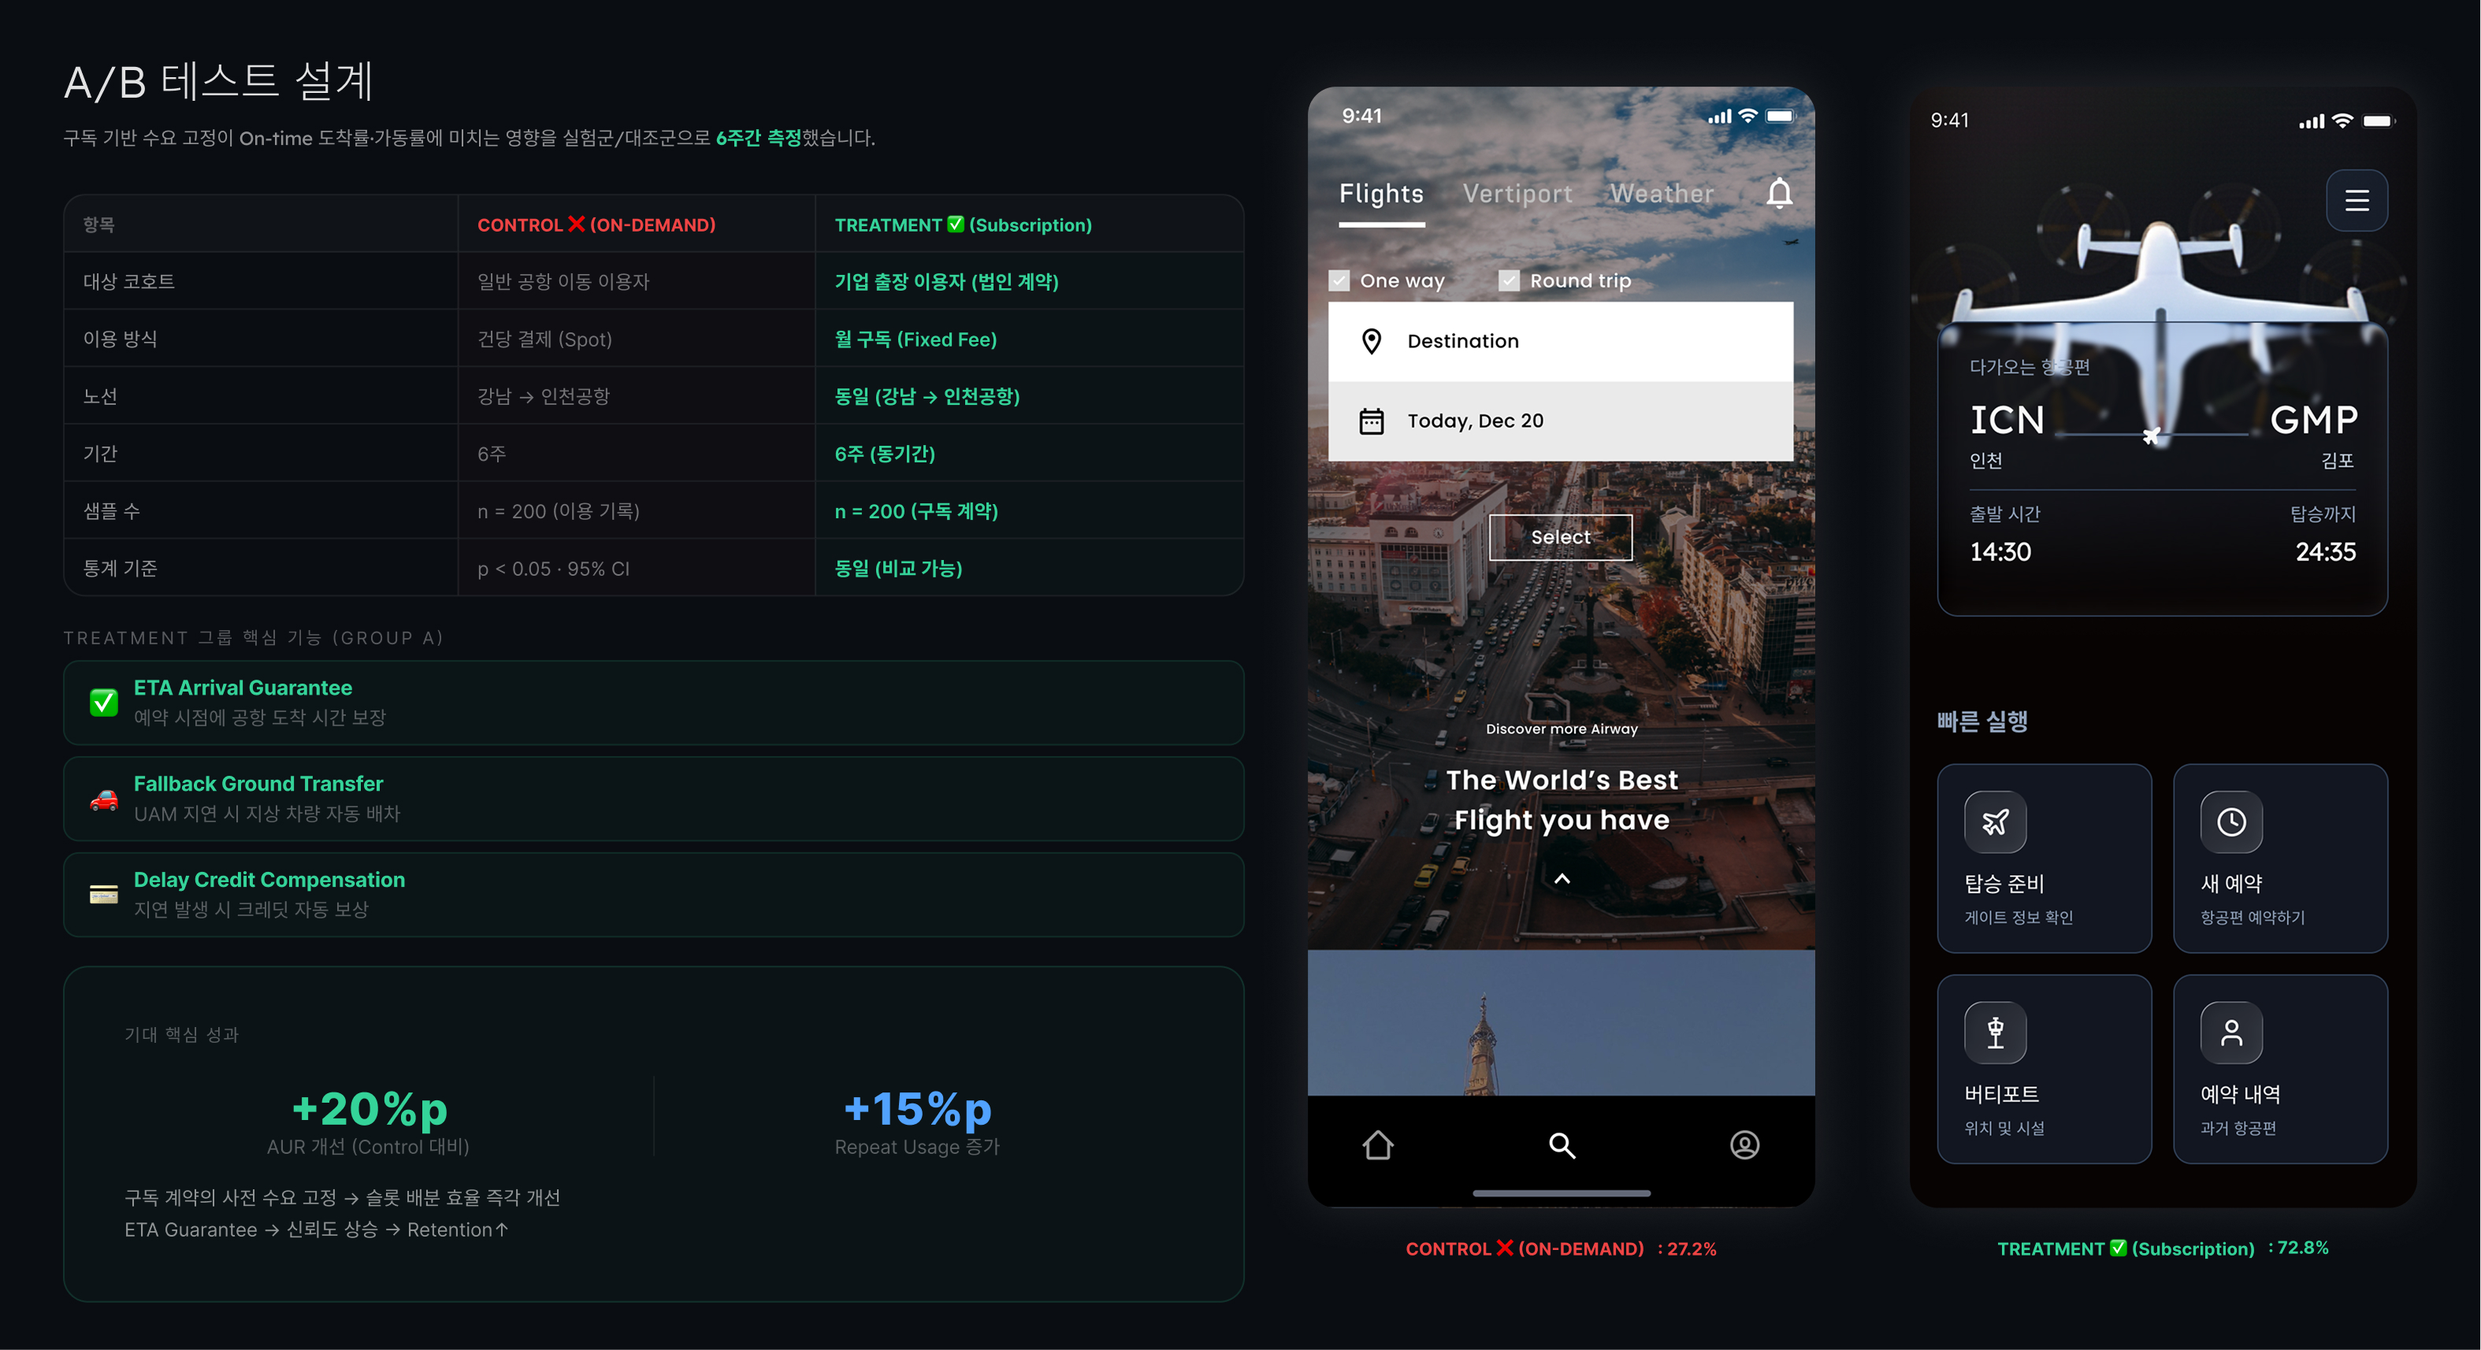
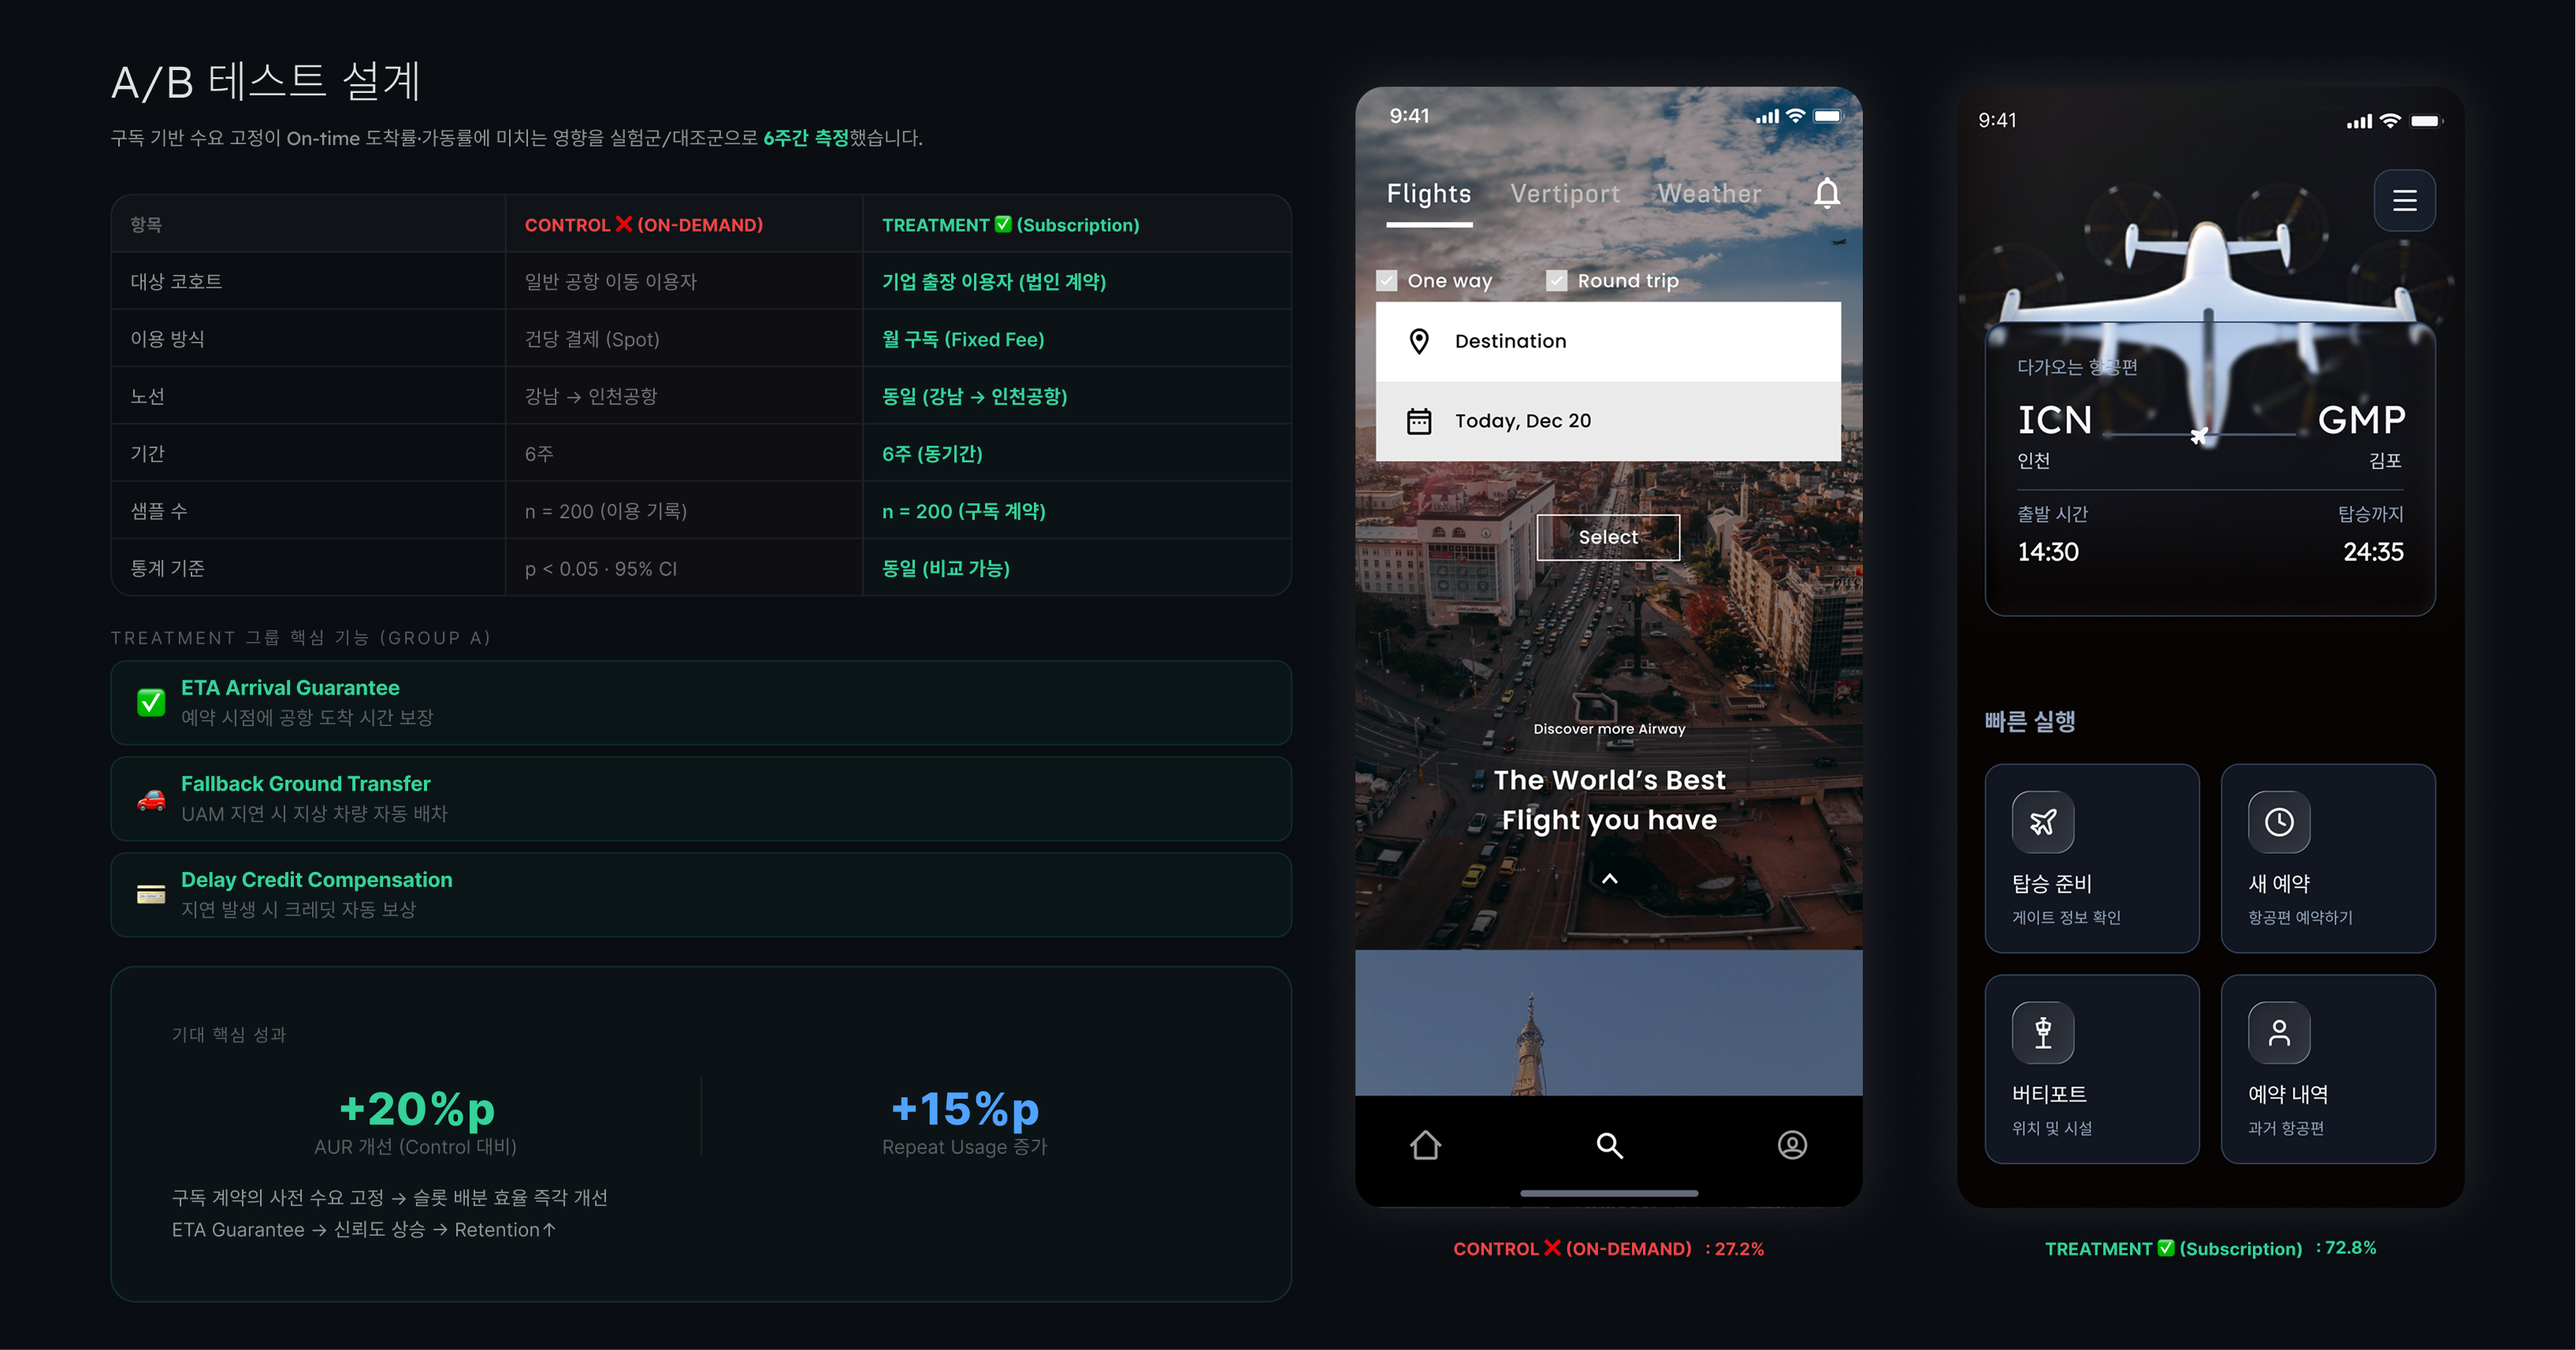
Update story cards, airway execution, work page edits

diff --git a/case-study-airway.html b/case-study-airway.html
@@ -231,6 +231,23 @@
     .strat-num { font-size:10px; font-weight:600; letter-spacing:0.18em; text-transform:uppercase; color:var(--accent); margin-bottom:10px; }
     .strat-name { font-family:'Lexend',sans-serif; font-size:16px; font-weight:600; color:var(--text); margin-bottom:8px; }
     .strat-desc { font-size:13px; color:var(--text-2); line-height:1.65; }
+    /* EXEC BLOCKS */
+    .exec-block-list{display:flex;flex-direction:column;gap:0;margin:0;}
+    .exec-block{padding:52px 0 0;border-top:1px solid var(--border);}
+    .exec-block-header{margin-bottom:32px;}
+    .exec-block-num{font-family:'Lexend',sans-serif;font-size:10px;font-weight:700;letter-spacing:.2em;text-transform:uppercase;color:var(--accent);margin-bottom:10px;}
+    .exec-block-name{font-family:'Lexend',sans-serif;font-size:clamp(20px,2.2vw,28px);font-weight:700;color:var(--text);line-height:1.15;}
+    .exec-block-meta{display:grid;grid-template-columns:1fr 1fr;gap:52px;margin-bottom:32px;}
+    @media(max-width:640px){.exec-block-meta{grid-template-columns:1fr;gap:20px;}}
+    .exec-block-label{font-size:9px;font-weight:700;letter-spacing:.18em;text-transform:uppercase;color:var(--text-3);margin-bottom:10px;}
+    .exec-block-purpose{font-size:15px;font-weight:600;font-family:'Lexend',sans-serif;color:var(--text);line-height:1.5;}
+    .exec-block-features{font-size:14px;color:var(--text-2);line-height:1.9;}
+    .exec-block-features li{list-style:none;padding-left:0;margin-bottom:8px;}
+    .exec-block-features li::before{content:'→ ';color:var(--accent);}
+    .exec-block-features strong{color:var(--text);font-weight:500;}
+    .exec-block-features em{color:var(--accent);font-style:normal;}
+    .exec-img-wrap{background:transparent;border:1px solid var(--border);border-radius:16px;overflow:hidden;margin:0 0 60px;width:100%;}
+    .exec-img-wrap img{width:100%;height:auto;display:block;}
 
     /* RESULT GRID */
     .result-grid { display:grid; grid-template-columns:repeat(3,1fr); gap:2px; background:var(--border); margin:36px 0; }
@@ -570,6 +587,10 @@
         B2B 구독 중심의 수요 고정 구조와 사용자 신뢰 회복을 위한 세 가지 솔루션 방향을 도출했다.
       </p>
 
+      <div class="img-wrap">
+        <img src="./Airway/exec-01.jpg" alt="A/B Test Design" />
+      </div>
+
       <!-- As-is / To-be -->
       <div class="as-is-tobe">
         <div class="cs-col-card">
@@ -593,35 +614,83 @@
         </div>
       </div>
 
-      <div class="img-wrap">
-        <img src="./Airway/exec-01.jpg" alt="Execution Overview" />
-      </div>
+      <div class="exec-block-list">
 
-      <!-- 3 Strategies -->
-      <div class="strategies">
-        <div class="strat-card">
-          <div class="strat-num">01</div>
-          <div class="strat-name" data-i18n="st1.name">ETA 보장 인터페이스</div>
-          <div class="strat-desc" data-i18n="st1.desc">정시성 표시 및 실시간 도착 예정 시간 보장. 시간 불확실성을 해소하여 출장자의 심리적 안전감을 확보한다.</div>
+        <!-- Block 01 — Experiment Design -->
+        <div class="exec-block">
+          <div class="exec-block-header">
+            <div class="exec-block-num">01 · Experiment Design</div>
+            <div class="exec-block-name" data-i18n="st1.name">도착 시간 보장</div>
+          </div>
+          <div class="exec-block-meta">
+            <div class="exec-block-left">
+              <div class="exec-block-label">목적</div>
+              <p class="exec-block-purpose" data-i18n="st1.purpose">도착 시간 보장 및 출발 일정 제안</p>
+            </div>
+            <div class="exec-block-right">
+              <div class="exec-block-label">기능</div>
+              <ul class="exec-block-features">
+                <li data-i18n="st1.f1">Arrival Guarantee 표시 <em>(공항 도착 보장 시간)</em></li>
+                <li data-i18n="st1.f2">Buffer Calculation — <strong>탑승 마감까지 여유 분 자동 계산</strong></li>
+                <li data-i18n="st1.f3">Reliability Indicator — 정시성 98% 실시간 표시</li>
+              </ul>
+            </div>
+          </div>
+          <div class="exec-img-wrap">
+            <img src="./Airway/exec-02.jpg" alt="ETA Guarantee Detail" />
+          </div>
         </div>
-        <div class="strat-card">
-          <div class="strat-num">02</div>
-          <div class="strat-name" data-i18n="st2.name">Door-to-Door 모빌리티 통합</div>
-          <div class="strat-desc" data-i18n="st2.desc">UAM 탑승 전후 지상 이동을 하나의 플로우로 통합. 끊김 없는 이동 경험으로 전환율을 높인다.</div>
-        </div>
-        <div class="strat-card">
-          <div class="strat-num">03</div>
-          <div class="strat-name" data-i18n="st3.name">B2B 관리자 대시보드</div>
-          <div class="strat-desc" data-i18n="st3.desc">기업 담당자가 구독 관리·운항 현황·비용을 실시간으로 확인. 기업 도입 의사결정 장벽을 낮춘다.</div>
-        </div>
-      </div>
 
-      <div class="img-wrap">
-        <img src="./Airway/exec-02.jpg" alt="Execution Detail" />
-      </div>
+        <!-- Block 02 — Door-to-Door Mobility Planning -->
+        <div class="exec-block">
+          <div class="exec-block-header">
+            <div class="exec-block-num">02 · Door-to-Door Mobility Planning</div>
+            <div class="exec-block-name" data-i18n="st2.name">통합 이동 경험</div>
+          </div>
+          <div class="exec-block-meta">
+            <div class="exec-block-left">
+              <div class="exec-block-label">목적</div>
+              <p class="exec-block-purpose" data-i18n="st2.purpose"><em>Seamless Transfer Flow</em> — 집 앞 픽업부터 공항 터미널까지. UAM 비행 외의 지상 이동 공백을 메워 전체 정시성을 확보.</p>
+            </div>
+            <div class="exec-block-right">
+              <div class="exec-block-label">기능</div>
+              <ul class="exec-block-features">
+                <li data-i18n="st2.f1">버티포트 이동 → UAM 비행 → 공항 환승 <strong>전 구간 시각화</strong></li>
+                <li data-i18n="st2.f2">지상 연결 차량 자동 배차 <em>(마지막 마일 연계)</em></li>
+                <li data-i18n="st2.f3">멀티모달 타임라인 — 이동 전 구간 ETA 통합</li>
+              </ul>
+            </div>
+          </div>
+          <div class="exec-img-wrap">
+            <img src="./Airway/exec-03.jpg" alt="Door-to-Door Mobility Planning" />
+          </div>
+        </div>
 
-      <div class="img-wrap">
-        <img src="./Airway/exec-03.jpg" alt="B2B Dashboard" />
+        <!-- Block 03 — Premium Environment Setting -->
+        <div class="exec-block">
+          <div class="exec-block-header">
+            <div class="exec-block-num">03 · Premium Environment Setting</div>
+            <div class="exec-block-name" data-i18n="st3.name">관리 효율성 증대</div>
+          </div>
+          <div class="exec-block-meta">
+            <div class="exec-block-left">
+              <div class="exec-block-label">목적</div>
+              <p class="exec-block-purpose" data-i18n="st3.purpose">프리미엄 환경 설정 기능 및 휴식에 최적화된 환경 제안</p>
+            </div>
+            <div class="exec-block-right">
+              <div class="exec-block-label">기능</div>
+              <ul class="exec-block-features">
+                <li data-i18n="st3.f1">Arrival Time + Flight Buffer + <strong>Guarantee Coverage 표시</strong></li>
+                <li data-i18n="st3.f2">법인 계정 통합 — 출장비 자동 정산·리포트 연동</li>
+                <li data-i18n="st3.f3">이용 패턴 분석 인사이트 — <em>관리자 대시보드</em></li>
+              </ul>
+            </div>
+          </div>
+          <div class="exec-img-wrap">
+            <img src="./Airway/exec-04.jpg" alt="Premium Environment Setting" />
+          </div>
+        </div>
+
       </div>
     </section>
 

diff --git a/contact.html b/contact.html
@@ -331,27 +331,27 @@
       <div class="story-cards reveal">
 
         <div class="story-card">
-          <div class="story-card-img" data-i18n-placeholder="sc1.img">Image</div>
+          <div class="story-card-img"><img src="./ABOUT/story-01.jpg" alt="Metal Crafts & UX" /></div>
           <div class="story-card-title" data-i18n="sc1.title">Metal Crafts &amp; UX</div>
           <div class="story-card-body" data-i18n="sc1.body">어릴 때부터 무언가를 직접 만드는 것을 좋아했습니다. physical과 digital을 사용자 경험의 시각으로 어떻게 연결할 수 있을지, 평생 탐구해왔습니다.</div>
         </div>
 
         <div class="story-card">
-          <div class="story-card-img" data-i18n-placeholder="sc2.img">Image</div>
+          <div class="story-card-img"><img src="./ABOUT/story-02.jpg" alt="기술은 어떻게 비즈니스를 바꾸는가?" /></div>
           <div class="story-card-title" data-i18n="sc2.title">기술은 어떻게 비즈니스를 바꾸는가?</div>
           <div class="story-card-body" data-i18n="sc2.body">컨설팅·예술·기술이 혼재된 가정환경 속에서 자라며, 기술이 삶의 모든 영역에 영향을 준다는 사실에 일찍부터 매료되었습니다.</div>
         </div>
 
         <div class="story-card">
-          <div class="story-card-img" data-i18n-placeholder="sc3.img">Image</div>
+          <div class="story-card-img"><img src="./ABOUT/story-03.jpg" alt="Rotterdam, NL" /></div>
           <div class="story-card-title" data-i18n="sc3.title">Rotterdam, NL</div>
           <div class="story-card-body" data-i18n="sc3.body">로테르담에서 1년 거주하며 네덜란드를 여러 차례 여행했습니다. 도시가 얼마나 다르게 작동할 수 있는지 직접 관찰할 수 있는 소중한 경험이었습니다.</div>
         </div>
 
         <div class="story-card">
-          <div class="story-card-img" data-i18n-placeholder="sc4.img">Image</div>
+          <div class="story-card-img"><img src="./ABOUT/story-04.jpg" alt="왜 서비스에서 Product인가?" /></div>
           <div class="story-card-title" data-i18n="sc4.title">왜 서비스에서 Product인가?</div>
-          <div class="story-card-body" data-i18n="sc4.body">사람이 먼저입니다. 내 일이 PEOPLE에게 어떤 영향을 미치는가를 항상 중심에 두고, 혼돈보다 효율적이고 구조화된 방식으로 작동하길 추구합니다.</div>
+          <div class="story-card-body" data-i18n="sc4.body">제가 한 일이 사람들에게 어떤 영향을 미치는가를 항상 중심에 두고, 효율적이고 구조화된 방식으로 작동하길 추구합니다.</div>
         </div>
 
       </div>

diff --git a/work.html b/work.html
@@ -131,7 +131,7 @@
       opacity: 0; animation: fadeUp .8s .2s forwards;
     }
     .page-header h1 em { font-style: normal; color: var(--text-3); }
-    .page-desc {
+    .page-desc { white-space: nowrap;
       margin-top: 28px; font-size: 15px; color: var(--text-2); max-width: 520px; line-height: 1.8;
       opacity: 0; animation: fadeUp .7s .35s forwards;
     }
@@ -364,6 +364,7 @@
     .t-fade { transition: opacity .22s; }
     .t-fade.fading { opacity: 0; }
 
+    @media (max-width: 768px) { .page-desc { white-space: normal; } }
     @media (max-width: 860px) {
       nav, .page-header, .page-content, footer { padding-left: 28px; padding-right: 28px; }
       .project-row { grid-template-columns: 40px 1fr; }
@@ -518,7 +519,7 @@
           <div class="row-title" data-i18n="p5.title">
             Master's Graduation · Airway
           </div>
-          <div class="row-sub" data-i18n="p5.co">서울대학교 대학원 졸업 논문</div>
+          <div class="row-sub" data-i18n="p5.co">서울대학교 석사 졸업 논문</div>
         </div>
         <div class="row-right">
           <div>
